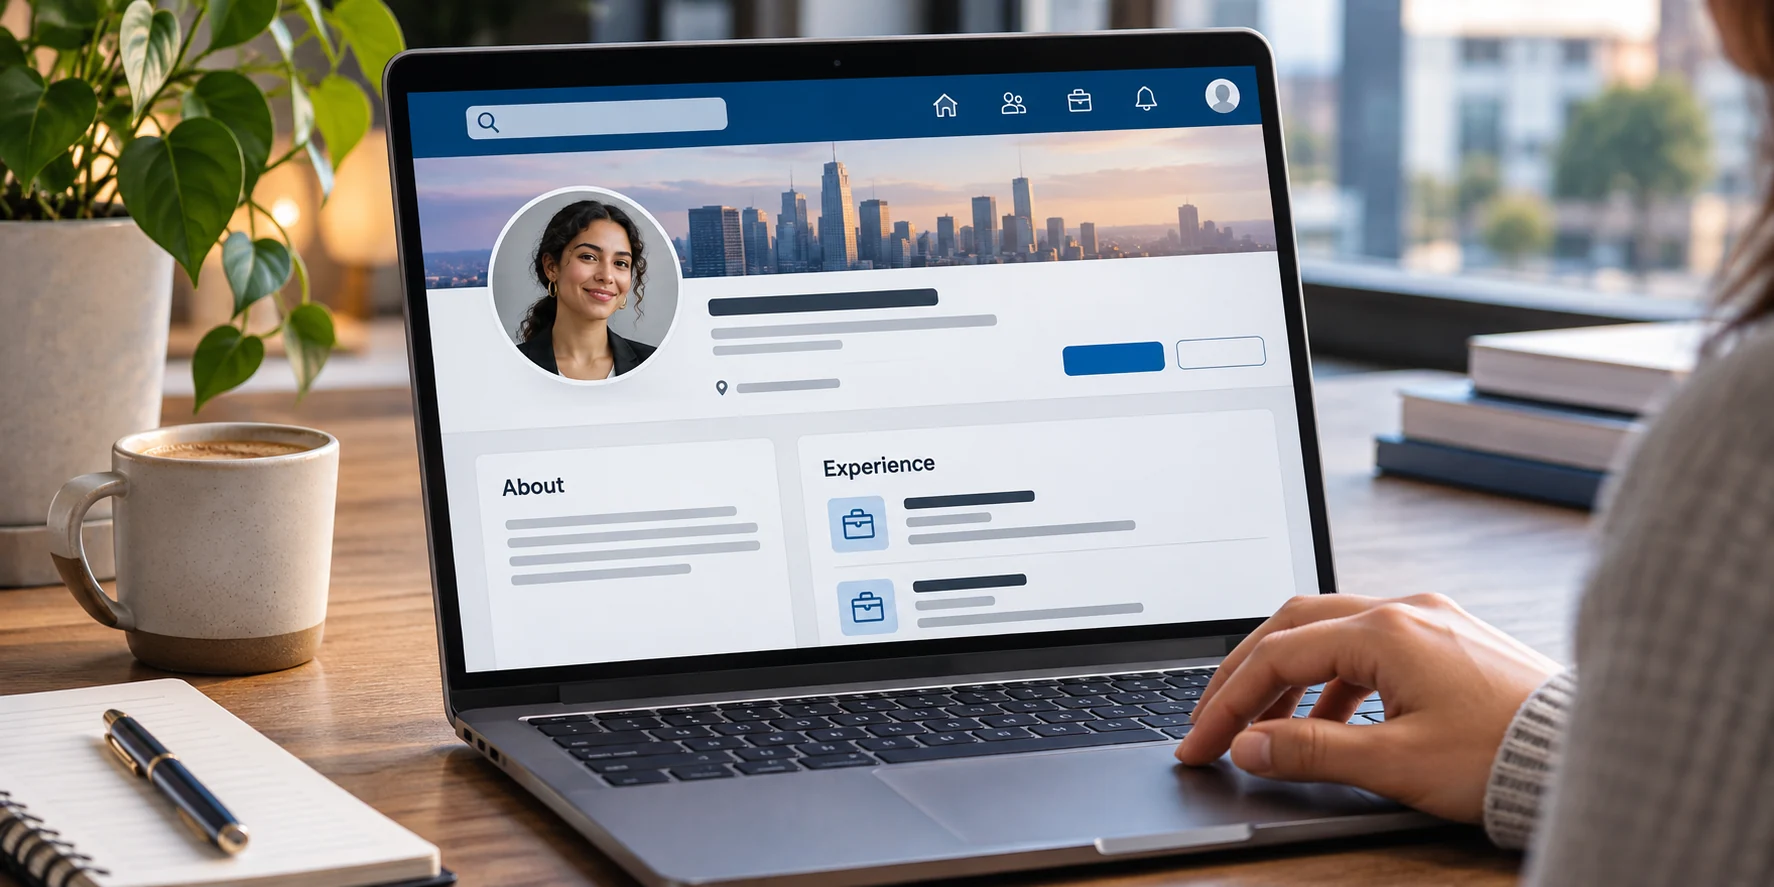
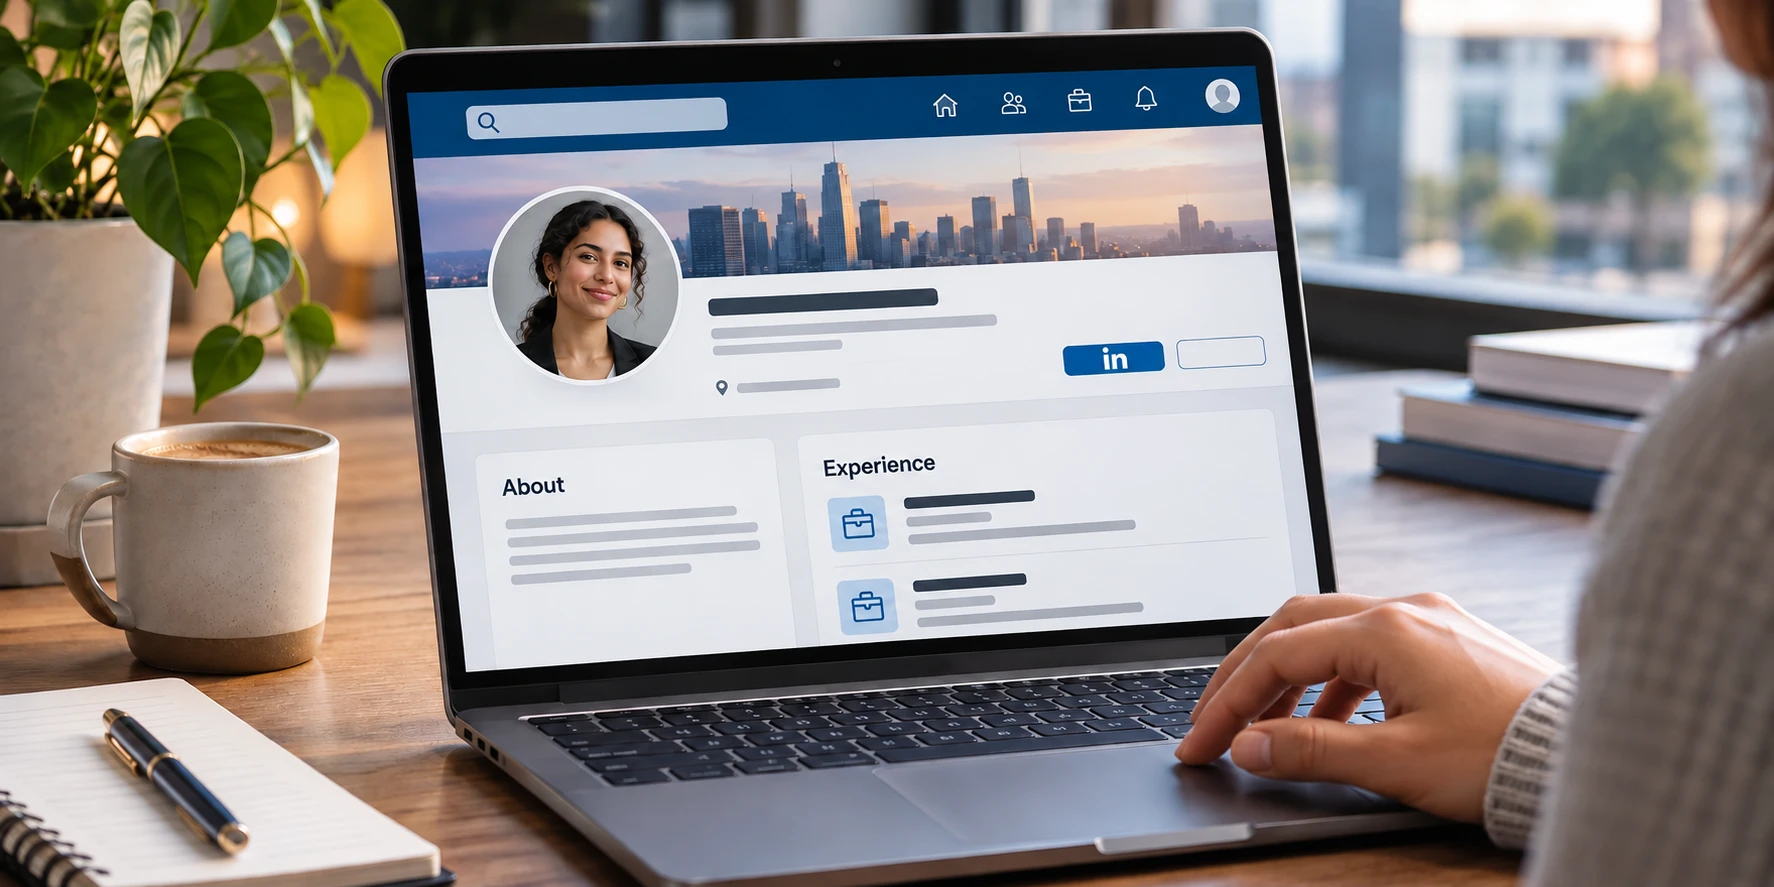
Lay out the Home tool cards like the basics cards, and update the heading, trust line and LinkedIn picture
The Start link on each Home tool card now sits below the description, as
on the basics cards. The gaps and dividers between the tool cards match
the basics row (2.2rem, dividers 1.1rem from the card edge), and the tool
pictures are a little shorter (3:1).

The heading above the tool cards reads "Career Basics." The trust line
reads "We don’t store your resume or job posting."

The LinkedIn Basics picture is the uploaded version with the LinkedIn
"in" mark on the profile button. Same filename, so Home, Learn and the
LinkedIn article all show it. The LinkedIn logo still needs the brand
licence check.

diff --git a/backend/tests/frontend/home.test.js b/backend/tests/frontend/home.test.js
@@ -201,7 +201,7 @@ test("five tool cards, each a single Start link: Improve Your Resume opens one e
 
 test("the section headings, ids and closing line", () => {
   assert.match(html, /<h2 id="basics-h" class="h7-h2">Start With The Basics\.<\/h2>\s*<p class="h7-sub">Learn how careers, resumes, and interviews work\.<\/p>/);
-  assert.match(html, /<h2 id="tools-h" class="h7-h2">Career basics<\/h2>\s*<p class="h7-sub">Build your tomorrow\.<\/p>/);
+  assert.match(html, /<h2 id="tools-h" class="h7-h2">Career Basics\.<\/h2>\s*<p class="h7-sub">Build your tomorrow\.<\/p>/);
   for (const id of ["basics", "tools"]) assert.ok(html.includes(`id="${id}"`), `missing #${id}`);
   assert.match(html, /<h2 id="close-h">We don’t invent your value\. We help you see it\.<\/h2>/);
   assert.match(html, /href="tool\.html" class="h7-btn h7-btn-gold">Get started today/);
@@ -290,7 +290,7 @@ test("the five tool cards carry their own drawings (page being started, match me
 
 test("copy and layout polish: card images keep the drawing's shape at every width, and the page copy is punctuated the same way throughout", () => {
   assert.match(css7, /\.h7-img \{[^}]*aspect-ratio: 360 \/ 160/);
-  assert.match(css7, /\.h7-tool \.h7-img \{[^}]*aspect-ratio: 400 \/ 150/);
+  assert.match(css7, /\.h7-tool \.h7-img \{[^}]*aspect-ratio: 3 \/ 1/);
   assert.ok(!/\.h7-img \{[^}]*height:/.test(css7), "no fixed height that would crop the drawings at tablet width");
   assert.ok(!/Really\?\./.test(html), "no double punctuation in the spoken names");
   assert.ok(!html.includes("No Barriers"), "barriers is lower case");
@@ -303,7 +303,7 @@ test("copy and layout polish: card images keep the drawing's shape at every widt
 });
 
 test("the trust line, the sunflower mascot, hover lift, an aligned footer, normal-case titles and the arrow on Start", () => {
-  assert.match(html, /<p class="h7-trust"><svg[^>]*aria-hidden="true">[\s\S]*?<\/svg><span>Our free tools don’t keep your resume or job posting\.<\/span><\/p>/);
+  assert.match(html, /<p class="h7-trust"><svg[^>]*aria-hidden="true">[\s\S]*?<\/svg><span>We don’t store your resume or job posting\.<\/span><\/p>/);
   assert.ok(html.indexOf("h7-free") < html.indexOf("h7-trust"), "the trust line sits under the no-cost line");
   assert.match(html, /<img class="h7-mascot" src="mascot-welcome\.png" alt="" width="245" height="291" \/>/);
   assert.ok(fs.existsSync(path.join(FRONTEND, "mascot-welcome.png")));

diff --git a/frontend/home-v7.css b/frontend/home-v7.css
@@ -107,8 +107,9 @@ body.home-v7 main { max-width: none; margin: 0; padding: 0; }
 
 .h7-tools { display: grid; grid-template-columns: repeat(3, 1fr); gap: 2rem 1.75rem; }
 .h7-tool { display: flex; flex-direction: column; text-align: left; text-decoration: none; color: inherit; }
-.h7-tool .h7-img { aspect-ratio: 400 / 150; }
-.h7-tool-row { display: flex; align-items: center; justify-content: space-between; gap: 0.75rem; margin-top: 0.75rem; }
+.h7-tool .h7-img { aspect-ratio: 3 / 1; }
+.h7-tool-row { display: flex; flex-direction: column; gap: 0; margin-top: 0.75rem; }
+.h7-tool .h7-link { padding-top: 0.75rem; }
 .h7-tool-body { min-width: 0; }
 .h7-tool .h7-title { margin: 0 0 0.25rem; }
 
@@ -170,15 +171,14 @@ body.home-v7.chrome-v6:not(.dashboard-v4) main .h7-privacy a { color: var(--roya
 
 /* Tool cards on desktop: three on the top row, then Improve Your Resume and Match centred under them (3-2). */
 @media (min-width: 1001px) {
-  body.home-v7.chrome-v6:not(.dashboard-v4) main .h7-tools { grid-template-columns: repeat(6, minmax(0, 1fr)); column-gap: 0.75rem; row-gap: 1.25rem; }
-  body.home-v7.chrome-v6:not(.dashboard-v4) main .h7-tool-row { gap: 0.25rem; }
+  body.home-v7.chrome-v6:not(.dashboard-v4) main .h7-tools { grid-template-columns: repeat(6, minmax(0, 1fr)); column-gap: 2.2rem; row-gap: 2.2rem; }
   body.home-v7.chrome-v6:not(.dashboard-v4) main .h7-tool { grid-column: span 2; position: relative; }
   body.home-v7.chrome-v6:not(.dashboard-v4) main .h7-tool:nth-child(4) { grid-column: 2 / span 2; }
   body.home-v7.chrome-v6:not(.dashboard-v4) main .h7-tool:nth-child(5) { grid-column: 4 / span 2; }
   /* Amber dividers between neighbours in each row, as in Start with the basics. */
   body.home-v7.chrome-v6:not(.dashboard-v4) main .h7-tool:nth-child(2)::before,
   body.home-v7.chrome-v6:not(.dashboard-v4) main .h7-tool:nth-child(3)::before,
-  body.home-v7.chrome-v6:not(.dashboard-v4) main .h7-tool:nth-child(5)::before { content: ""; position: absolute; top: 0; bottom: 0; left: -0.375rem; width: 1.5px; background: var(--amber); }
+  body.home-v7.chrome-v6:not(.dashboard-v4) main .h7-tool:nth-child(5)::before { content: ""; position: absolute; top: 0; bottom: 0; left: -1.1rem; width: 1.5px; background: var(--amber); }
 }
 /* Phone: the Privacy line keeps the same side gutter as the hero. */
 @media (max-width: 620px) {

diff --git a/frontend/index.html b/frontend/index.html
@@ -56,7 +56,7 @@
           <a href="learn.html" aria-haspopup="dialog" class="h7-btn h7-btn-gold" data-learn-open>Learn</a>
         </div>
         <p class="h7-free"><svg viewBox="0 0 24 24" aria-hidden="true"><circle cx="12" cy="12" r="12"/><path d="M6.5 12.5l4 4L17.5 9"/></svg><span>No cost. No barriers.</span></p>
-        <p class="h7-trust"><svg viewBox="0 0 24 24" aria-hidden="true"><rect x="5" y="11" width="14" height="9" rx="2"/><path d="M8 11V8a4 4 0 0 1 8 0v3"/></svg><span>Our free tools don’t keep your resume or job posting.</span></p>
+        <p class="h7-trust"><svg viewBox="0 0 24 24" aria-hidden="true"><rect x="5" y="11" width="14" height="9" rx="2"/><path d="M8 11V8a4 4 0 0 1 8 0v3"/></svg><span>We don’t store your resume or job posting.</span></p>
       </div>
       <div class="h7-hero-photo">
         <img src="img/home/hero-graduate-placeholder.jpg" alt="A graduate in a blue cap and gown, seen from behind, looking toward a sunlit campus" width="826" height="616" />
@@ -104,7 +104,7 @@
 
     <!-- Career tools: six tool cards, each with an image box -->
     <section class="h7-wrap h7-band" id="tools" aria-labelledby="tools-h">
-      <h2 id="tools-h" class="h7-h2">Career basics</h2>
+      <h2 id="tools-h" class="h7-h2">Career Basics.</h2>
       <p class="h7-sub">Build your tomorrow.</p>
       <div class="h7-tools">
           <a class="h7-tool" href="scratch.html" aria-label="Create: Create your first resume. Start this tool.">
